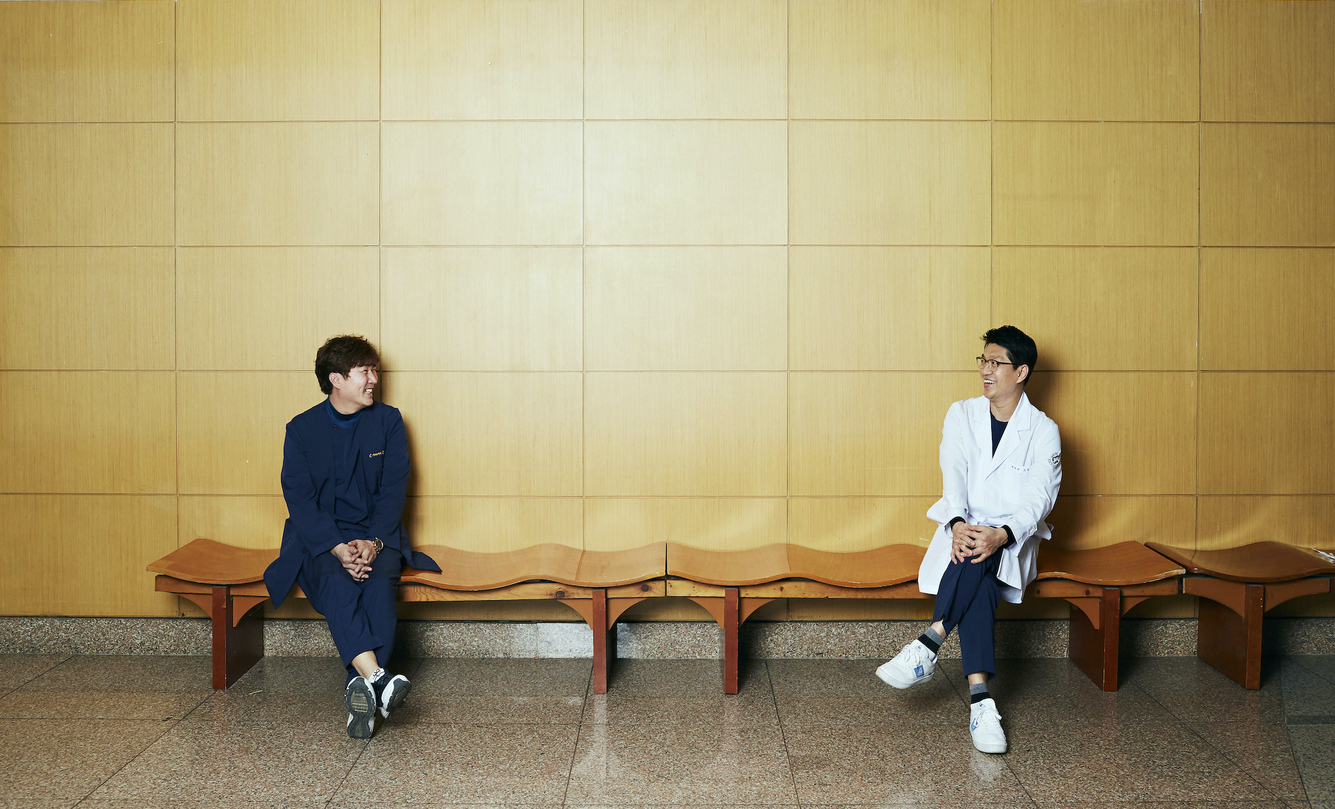
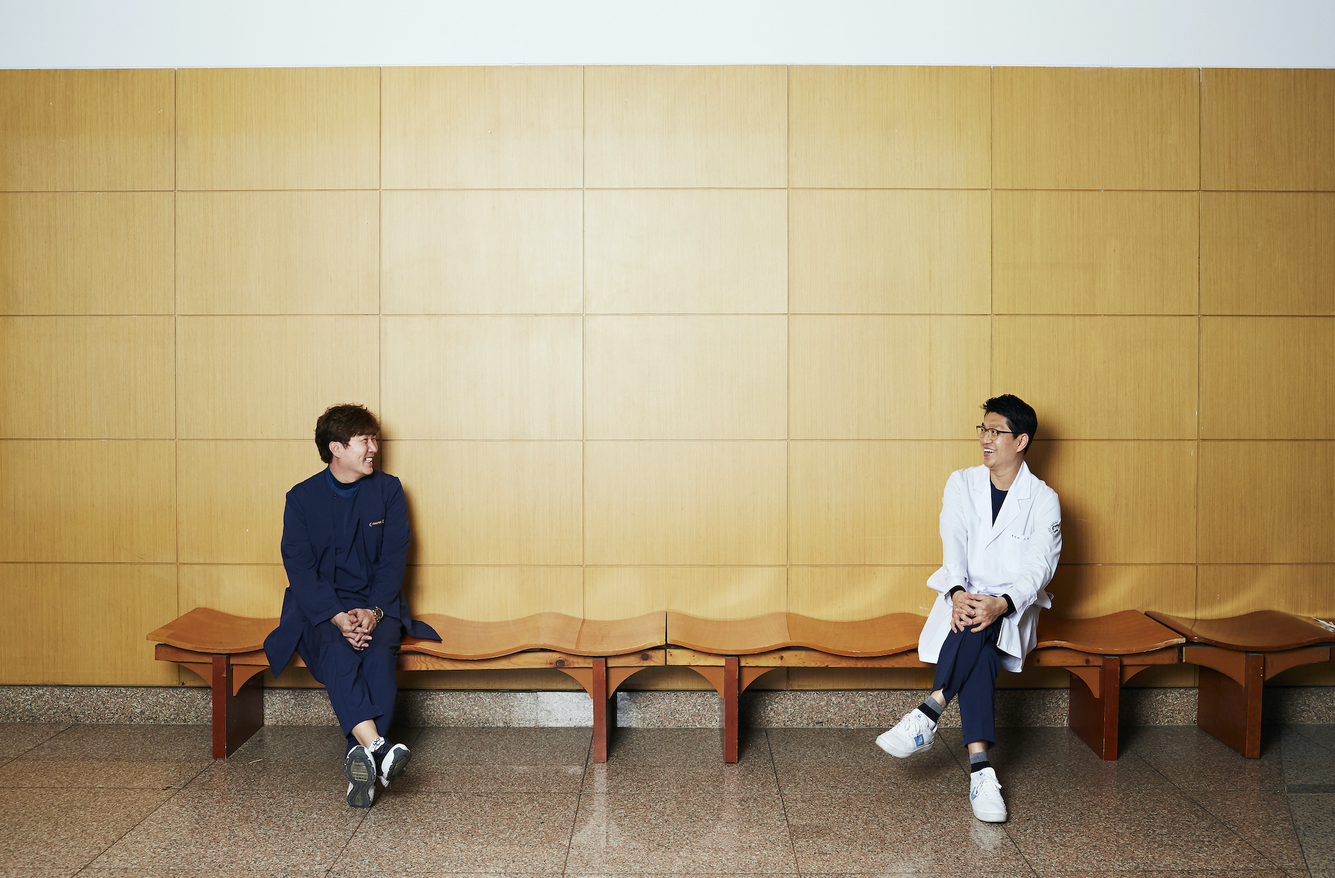
Cover Image

diff --git a/src/components/home/Cover.js b/src/components/home/Cover.js
@@ -4,9 +4,8 @@ import { Container, Row, Col } from 'reactstrap';
 import {Link} from "react-router-dom";
 
 import img1 from "../../assets/images/Cover/cover1.jpg";
-import img2 from "../../assets/images/Cover/mainSlide2.jpg";
-import img3 from "../../assets/images/Cover/mainSlide3.jpg";
-import img4 from "../../assets/images/Cover/mainSlide4.jpg";
+import img2 from "../../assets/images/Cover/cover2.jpg";
+import img3 from "../../assets/images/Cover/cover3.jpg";
 
 
 import Slider from 'react-slick';
@@ -14,27 +13,45 @@ import {IoIosArrowBack, IoIosArrowForward} from "react-icons/io/index";
 
 const Cover = () => {
 
+    const caption = [
+        (
+            <div>
+                병원에서
+                <br/> ‘보다’의 의미를 찾다
+            </div>
+        ),
+        (
+            <div>
+                코로나19로부터
+                <br/>안전한 세상
+                <br/>일산병원이 함께합니다
+            </div>
+        ),
+        (
+            <div>
+                2021년 1월 1일의
+                <br/>해가 떠오르다
+                <br/>한강에서 본 일출
+            </div>
+        )
+    ]
+
     const items = [
         {
             id: "1",
             src: img1,
-            caption: '희망을 이야기하는 YELLOW',
+            caption: caption[0],
         },
         {
             id: "2",
             src: img2,
-            caption: '변함없는 신뢰로 맞이한 생명의탄생'
+            caption: caption[1]
         },
         {
             id: "3",
             src: img3,
-            caption: '외래팀'
-        },
-        {
-            id: "4",
-            src: img4,
-            caption: ''
-        },
+            caption: caption[2]
+        }
     ];
 
     const [nav1, setNav1] = useState(null);
@@ -106,7 +123,7 @@ const Cover = () => {
                                                 <div className="text-white-50">
                                                     <h1 className="mb-3 carousel-title">{item.caption} </h1>
                                                     <div className="button-items mt-4">
-                                                        <Link to="#" className="btn btn-success mr-1">자세히 보기</Link>
+                                                        <Link to="#" className="btn btn-success mr-1">기사보기</Link>
                                                     </div>
                                                 </div>
                                             </Col>

diff --git a/src/screen/SectionOne.js b/src/screen/SectionOne.js
@@ -12,7 +12,7 @@ import {
 import HeaderP from "../components/header/HeaderP";
 import Footer from "../components/footer/Footer";
 
-import img from '../assets/images/section1/intro.png'
+import img from '../assets/images/section1/intro01.png'
 import img2 from '../assets/images/section1/newyears.png'
 import img3 from '../assets/images/section1/essay.png'
 import img4 from '../assets/images/section1/interview.jpg'
@@ -308,8 +308,8 @@ const SectionOne = ({match}) => {
             id: "1",
             src: img,
             head: head[0],
-            title: title[0],
-            subtitle: subtitle[0],
+            title: "",
+            subtitle: "",
             caption: [
                 {
                     ctitle: "",
@@ -434,7 +434,7 @@ const SectionOne = ({match}) => {
                                 <CardBody className="color-of-life__body">
                                     <div style={{textAlign: "center"}}>
                                         {cap.src ?
-                                            <CardImg style={{width: "80%"}} className="img-fluid mb-5" src={cap.src} alt="/"/> : ""
+                                            <CardImg style={{width: "70%"}} className="img-fluid mb-5" src={cap.src} alt="/"/> : ""
                                         }
 
                                     </div>

diff --git a/src/assets/scss/_slick.scss b/src/assets/scss/_slick.scss
@@ -9,8 +9,12 @@
 
     .slider-content {
       position: absolute;
-      top: 50%;
-      left: 70px;
+      //top: 50%;
+      //left: 70px;
+      //width: 100%;
+
+      top: 10%;
+      left: 5%;
       width: 100%;
     }
   }
@@ -20,7 +24,7 @@
 
     width: 100%;
     margin: 0px;
-    padding: 0px 150px;
+    padding: 0px 150px !important;
     background-color: rgba(0, 0, 0, 0.3);
 
     position: absolute;
@@ -30,10 +34,12 @@
       //max-width: 400px;
       overflow: hidden;
       display: block;
+      width: 80%;
+      ;
     }
 
     @media (max-width: 1024px) {
-      padding: 0px 100px;
+      padding: 0px 150px !important;
     }
 
     @media (min-width: 768px) {

diff --git a/src/assets/scss/layout/_header.scss b/src/assets/scss/layout/_header.scss
@@ -219,9 +219,9 @@
   position: relative;
 
   svg {
-    font-size: 20px;
+    font-size: 35px;
 
-    fill: $black--two;
+    fill: white;
   }
 }
 
